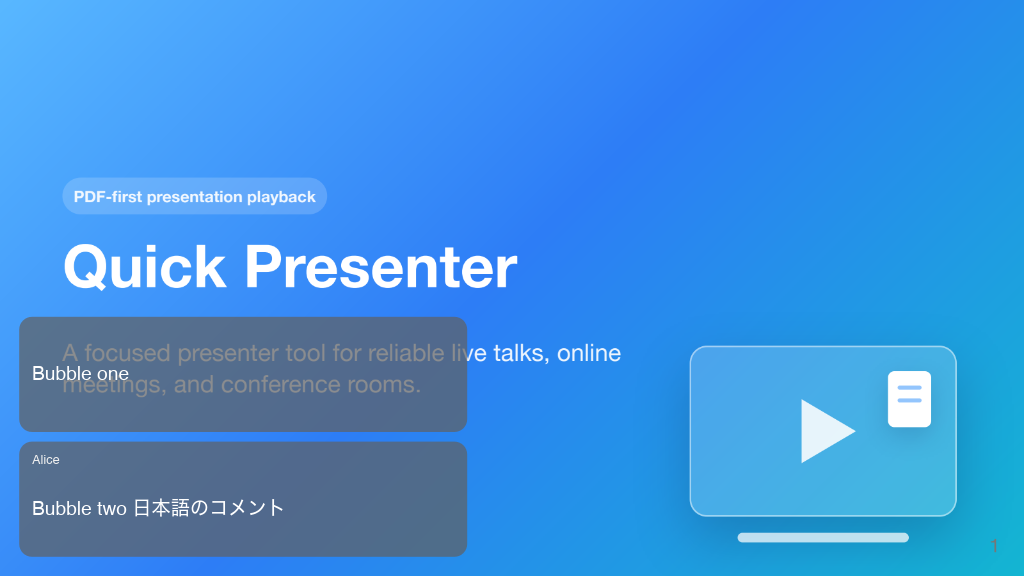
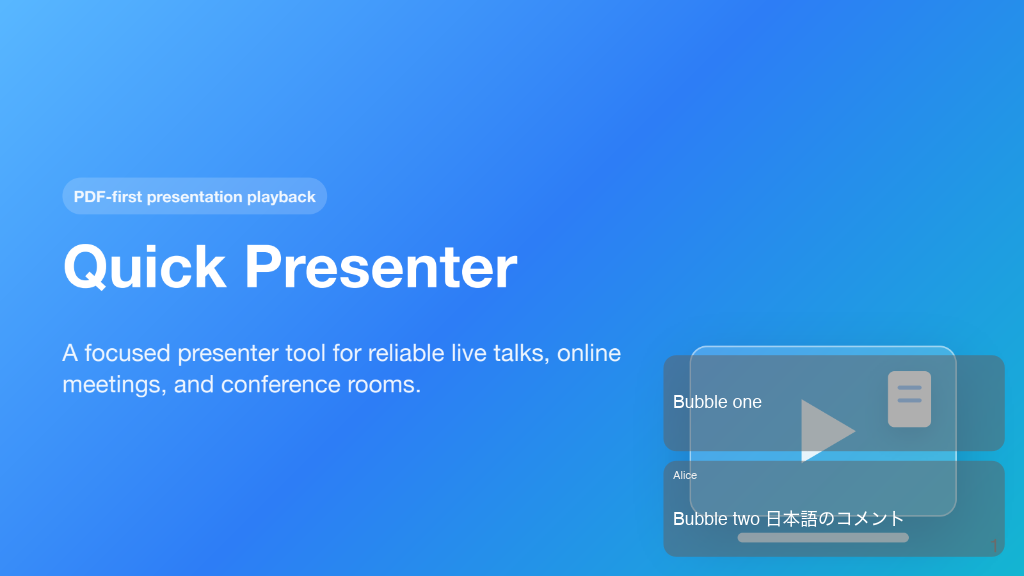
Move compact translucent comment bubbles to the right edge

Changed region(s): [[0.0, 0.5312, 0.4688, 0.9688], [0.625, 0.5938, 1.0, 0.9688]]

diff --git a/src/audience_comments.rs b/src/audience_comments.rs
@@ -46,10 +46,11 @@ impl Default for CommentDisplaySettings {
 }
 
 // Keep these logical dimensions in sync with the bubble stack in ui/app.slint.
-const BUBBLE_STEP: f32 = 156.0;
-const BUBBLE_BOTTOM: f32 = 552.0;
+const BUBBLE_STEP: f32 = 132.0;
+const BUBBLE_BOTTOM: f32 = 576.0;
 const BUBBLE_MOTION: Duration = Duration::from_millis(250);
 const BUBBLE_COUNT: usize = 4;
+const BUBBLE_TOP: f32 = BUBBLE_BOTTOM - (BUBBLE_COUNT - 1) as f32 * BUBBLE_STEP;
 #[derive(Clone, Debug)]
 pub struct BubbleFrame {
     pub name: String,
@@ -110,8 +111,9 @@ impl CommentEngine {
             .bubbles
             .iter()
             .any(|b| now.saturating_duration_since(b.moved_at) < BUBBLE_MOTION);
-        self.bubbles
-            .retain(|b| b.to_y >= 0.0 || now.saturating_duration_since(b.moved_at) < BUBBLE_MOTION);
+        self.bubbles.retain(|b| {
+            b.to_y >= BUBBLE_TOP || now.saturating_duration_since(b.moved_at) < BUBBLE_MOTION
+        });
         self.bubbles
             .iter()
             .map(|b| BubbleFrame {

diff --git a/docs/validation/V300_COMMENT_BUBBLES_20261025.md b/docs/validation/V300_COMMENT_BUBBLES_20261025.md
@@ -57,6 +57,23 @@ saves separate PPM snapshots for combined/two-bubble/four-bubble stages, with
 `pdf` or `no-deck` in each filename. The existing
 `QP_GUI_SMOKE_SETTINGS_SNAPSHOT` saves the Settings view.
 
+### Right-aligned compact revision
+
+The cards now anchor to the Audience window's right edge, including when the
+window and slide aspect ratios differ. Width is one third of the window;
+height is reduced from 144 to 120 logical pixels. Background opacity is reduced
+from about 70% to 50%, while text remains opaque. The four-card stack uses
+132-pixel slots and clips outgoing cards above its top edge.
+
+Formatting, `cargo check`, `cargo build --bins`, and the complete `cargo test`
+pass after the revision (622 passed, two existing ignored tests).
+The revised signed app passes the focused Audience Live/comments run again:
+**117 checks, zero failures**. The combined, two-card, and four-card screenshots
+below were recaptured from that run on the demo PDF and visually reviewed for
+right alignment, reduced footprint, and slide visibility through the cards.
+The Settings screenshot is unchanged. This revision does not rerun or claim to
+resolve the full-suite macOS fullscreen timeout recorded above.
+
 These PNGs were converted from actual Slint window snapshots during the focused
 run, without compositing or modifying their content:
 

diff --git a/docs/AUDIENCE_COMMENTS.md b/docs/AUDIENCE_COMMENTS.md
@@ -30,8 +30,11 @@ The defaults preserve the existing flowing overlay. Disabling a style clears
 its visible/pending items; enabling it waits for new comments without replaying
 history. Relay import/reset preserves these preferences.
 
-Bubbles are translucent gray rounded rectangles at the lower left of the
-logical canvas. A smaller author line appears above the wrapped comment;
+Bubbles are translucent gray rounded rectangles anchored to the lower right of
+the Audience window. Each card occupies one third of the window width, with a
+scaled right/bottom margin and 50% background opacity. Cards are 120 logical
+pixels tall; the author and comment text remain opaque for readability. A smaller
+author line appears above the wrapped comment;
 empty/whitespace-only handles and case-insensitive `Anonymous` omit that line.
 Each new bubble enters from below over 250 ms, moving older bubbles upward by
 one slot. Four settled bubbles fit in the stack; the oldest leaves through its
